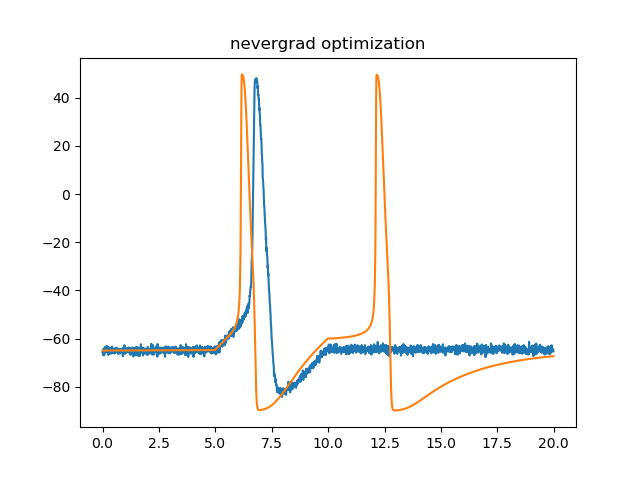
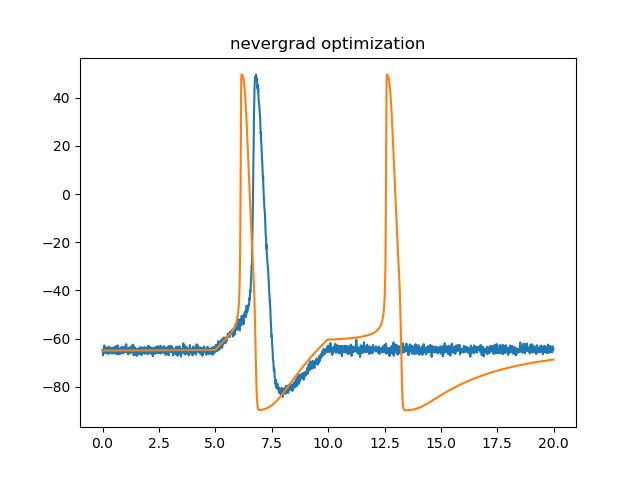
simulation changed to use metric, utils adapted

diff --git a/brian2tools/modelfitting/modelfitting_standalone.py b/brian2tools/modelfitting/modelfitting_standalone.py
@@ -1,5 +1,6 @@
 from numpy import mean, ones, array, where
-from brian2 import NeuronGroup,  defaultclock, second, get_device, StateMonitor
+from brian2 import (NeuronGroup,  defaultclock, second, get_device, StateMonitor,
+                    Network)
 from brian2.input import TimedArray
 from brian2.equations.equations import Equations
 from .simulation import RuntimeSimulation, CPPStandaloneSimulation
@@ -121,7 +122,7 @@ def fit_traces_standalone(model=None,
     model = model + Equations('total_error : %s' % repr(error_unit))
 
     # Population size for differential evolution
-    neurons = NeuronGroup(Ntraces * n_samples, model, method=method)
+    neurons = NeuronGroup(Ntraces * n_samples, model, method=method, name='neurons')
     neurons.namespace['input_var'] = input_traces
     neurons.namespace['output_var'] = output_traces
     neurons.namespace['t_start'] = t_start
@@ -155,17 +156,19 @@ def fit_traces_standalone(model=None,
 
     # Set up Simulator and Optimizer
     optimizer.initialize(parameter_names, **params)
-    simulator.initialize(neurons)
+    monitor = StateMonitor(neurons, output_var, record=True, name='monitor')
+
+    network = Network()
+    network.add(neurons, monitor)
+    simulator.initialize(network)
 
     # Run Optimization Loop
     for k in range(n_rounds):
         parameters = optimizer.ask(n_samples=n_samples)
         d_param = get_param_dic(parameters)
-        out = simulator.run(duration, d_param, parameter_names, output_var, neurons)
-        # out = simulator.run(duration, d_param, parameter_names, output_var)
-        # out = getattr(simulator.monitor, output_var)
-
-        print('out', out)
+        simulator.run(duration, d_param, parameter_names)
+        out = getattr(simulator.network['monitor'], output_var)
+        # out2 = getattr(monitor, output_var)
 
         if isinstance(metric, Metric):
             errors = metric.calc(out, output, Ntraces)
@@ -179,7 +182,9 @@ def fit_traces_standalone(model=None,
         result_dict = make_dic(parameter_names, res)
         index_param = where(array(parameters) == array(res))
         ii = index_param[0]
-        error = errors[ii][0]  # TODO: re-check
+        # TODO: fix error
+        # print('index_param', index_param)
+        error = errors[ii]  # TODO: re-check
 
         if verbose:
             print('round {} with error {}'.format(k, error))

diff --git a/examples/hh_nevergrad_standalone.py b/examples/hh_nevergrad_standalone.py
@@ -74,11 +74,12 @@ Cm=1*ufarad*cm**-2 * area, El=-65*mV, EK=-90*mV, ENa=50*mV, VT=-63*mV)
 set_device('cpp_standalone', directory='parallel', clean=False)
 
 n_opt = NevergradOptimizer()
-metric = MSEmetric()
+metric = MSEMetric()
 
 # pass parameters to the NeuronGroup
 res, error = fit_traces_standalone(model=eqs, input_var='I', output_var='v',
                                    input=inp_trace * amp, output=[out_trace]*mV, dt=dt,
+                                   param_init={'v': -65*mV},
                                    method='exponential_euler',
                                    gl=[1e-8*siemens*cm**-2 * area, 1e-4*siemens*cm**-2 * area],
                                    g_na=[1*msiemens*cm**-2 * area, 200*msiemens*cm**-2 * area],
@@ -90,21 +91,20 @@ res, error = fit_traces_standalone(model=eqs, input_var='I', output_var='v',
 print('correct:', params_correct, '\n output:', res)
 print('error', error)
 
+
 # visualization of the results
+# TODO: get generate fits to work with standalone
 # start_scope()
-# G = NeuronGroup(1, eqsHH, method='exponential_euler')
-# G.v = El
-# G.set_states(res, units=False)
-# mon = StateMonitor(G, 'v', record=0)
-# # mon = StateMonitor(G, ['v', 'I'], record=0)
-# run(25*ms)
+# set_device('cpp_standalone', directory='any', clean=False)
 #
-# voltage1 = mon.v[0]/mV
+# fits = generate_fits(model=eqs, method='exponential_euler', params=res,
+#                      input=inp_trace * amp, input_var='I', output_var='v',
+#                      dt=dt, param_init={'v': -65*mV})
 #
 #
-# plt.figure()
-# plot(np.arange(len(voltage))*dt/ms, voltage);
-# plot(np.arange(len(voltage1))*dt/ms, voltage1);
+# fig, ax = plt.subplots(nrows=1)
+# ax[0].plot(np.arange(len(out_trace[0]))*dt/ms, out_trace[0])
+# ax[0].plot(np.arange(len(fits[0]))*dt/ms, fits[0]/mV)
 # plt.title('nevergrad optimization')
-# plt.savefig('plots/hh_nevergrad.png')
+# # plt.savefig('plots/hh_nevergrad_standalone.png')
 # plt.show()

diff --git a/brian2tools/modelfitting/simulation.py b/brian2tools/modelfitting/simulation.py
@@ -1,7 +1,7 @@
 import os
 import abc
 from numpy import atleast_1d
-from brian2 import (run, device, store, restore, StateMonitor)
+from brian2 import device
 
 
 def initialize_parameter(variableview, value):
@@ -79,36 +79,30 @@ class Simulation(object):
 
 class RuntimeSimulation(Simulation):
     """Simulation class created for use with RuntimeDevice"""
-    def initialize(self, neurons):
-        store()
+    def initialize(self, network):
+        self.network = network
+        self.network.store()
 
-    def run(self, duration, params, params_names, vars, neurons):
-        restore()
-
-        monitor = StateMonitor(neurons, vars, record=True)
-        neurons.set_states(params, units=False)
-        run(duration, namespace={})
-
-        out = getattr(monitor, vars)
-
-        return out
+    def run(self, duration, params, params_names):
+        self.network.restore()
+        self.network['neurons'].set_states(params, units=False)
+        self.network.run(duration, namespace={})
 
 
 class CPPStandaloneSimulation(Simulation):
     """Simulation class created for use with CPPStandaloneDevice"""
-    def initialize(self, neurons):
-        self.neurons = neurons
+    def initialize(self, network):
+        self.network = network
 
-    def run(self, duration, params, params_names, monitor):
+    def run(self, duration, params, params_names):
         """
         simulation has to be run in two stages in order to initalize the
         code generaion
         """
-        self.monitor = monitor
         if not device.has_been_run:
-            self.params_init = initialize_neurons(params_names, self.neurons,
+            self.params_init = initialize_neurons(params_names, self.network['neurons'],
                                                   params)
-            run(duration)
+            self.network.run(duration)
 
         else:
             set_states(self.params_init, params)

diff --git a/brian2tools/modelfitting/utils.py b/brian2tools/modelfitting/utils.py
@@ -1,15 +1,17 @@
-from numpy import shape
-from brian2 import NeuronGroup, TimedArray, Equations, get_device
+from brian2 import (NeuronGroup, TimedArray, Equations, get_device, Network,
+                    StateMonitor, device)
 from .simulation import RuntimeSimulation, CPPStandaloneSimulation
 
 
+# TODO: get generate fits to work with standalone
 def generate_fits(model, method, params, input, input_var, output_var, dt, param_init=None):
     """Generate instance of best fits for all of the traces"""
 
     # Check initialization of params
     for param, val in param_init.items():
         if not (param in model.identifiers or param in model.names):
-            raise Exception("%s is not a model variable or an identifier in the model")
+            raise Exception("%s is not a model variable or an identifier in\
+                            the model")
 
     param_names = model.parameter_names
 
@@ -28,17 +30,20 @@ def generate_fits(model, method, params, input, input_var, output_var, dt, param
     model = model + Equations(input_var + '= input_var(t, i % Ntraces) :\
                               ' + "% s" % repr(input_unit))
 
-    neurons = NeuronGroup(Ntraces, model, method=method)
+    neurons = NeuronGroup(Ntraces, model, method=method, name='neurons')
     neurons.namespace['input_var'] = input_traces
     neurons.namespace['Ntraces'] = Ntraces
 
     # initalize the values
     neurons.set_states(param_init)
 
-    simulator.initialize_simulation(neurons)
+    monitor = StateMonitor(neurons, output_var, record=True, name='monitor')
 
-    monitor = simulator.run_simulation(neurons, duration, params, param_names,
-                                       [output_var])
+    network = Network()
+    network.add(neurons, monitor)
+    simulator.initialize(network)
+
+    simulator.run(duration, params, param_names)
 
     fits = getattr(monitor, output_var)
 

diff --git a/examples/hh_nevergrad_runtime.py b/examples/hh_nevergrad_runtime.py
@@ -106,6 +106,7 @@ res, error = fit_traces_standalone(model=eqs, input_var='I', output_var='v',
                                    input=inp_trace * amp, output=out_trace*mV, dt=dt,
                                    n_rounds=1, n_samples=5, optimizer=n_opt, metric=metric,
                                    param_init={'v': -65*mV},
+                                   method='exponential_euler',
                                    gl=[1e-8*siemens*cm**-2 * area, 1e-3*siemens*cm**-2 * area],
                                    g_na=[1*msiemens*cm**-2 * area, 2000*msiemens*cm**-2 * area],
                                    g_kd=[1*msiemens*cm**-2 * area, 1000*msiemens*cm**-2 * area],
@@ -123,10 +124,10 @@ fits = generate_fits(model=eqs, method='exponential_euler', params=res,
 
 
 fig, ax = plt.subplots(nrows=2)
-ax[0].plot(np.arange(len(out_trace[0]))*dt/ms, out_trace[0]);
-ax[0].plot(np.arange(len(fits[0]))*dt/ms, fits[0]/mV);
-ax[1].plot(np.arange(len(out_trace[1]))*dt/ms, out_trace[1]);
-ax[1].plot(np.arange(len(fits[1]))*dt/ms, fits[1]/mV);
+ax[0].plot(np.arange(len(out_trace[0]))*dt/ms, out_trace[0])
+ax[0].plot(np.arange(len(fits[0]))*dt/ms, fits[0]/mV)
+ax[1].plot(np.arange(len(out_trace[1]))*dt/ms, out_trace[1])
+ax[1].plot(np.arange(len(fits[1]))*dt/ms, fits[1]/mV)
 plt.title('nevergrad optimization')
 # plt.savefig('plots/hh_nevergrad.png')
 plt.show()

diff --git a/brian2tools/tests/test_metric.py b/brian2tools/tests/test_metric.py
@@ -1,6 +1,7 @@
 '''
 Test the metric class
 '''
+import numpy as np
 from brian2tools import Metric, MSEMetric
 
 
@@ -9,6 +10,13 @@ def test_init():
     MSEMetric()
 
 def test_traces_to_features():
+    inp = np.random.rand(10,2)
+    metric = MSEMetric()
+
+
+    out = metric.traces_to_features(np.random.rand(2,10))
+    print(np.shape(out))
+
     pass
 
 def test_features_to_errors():
